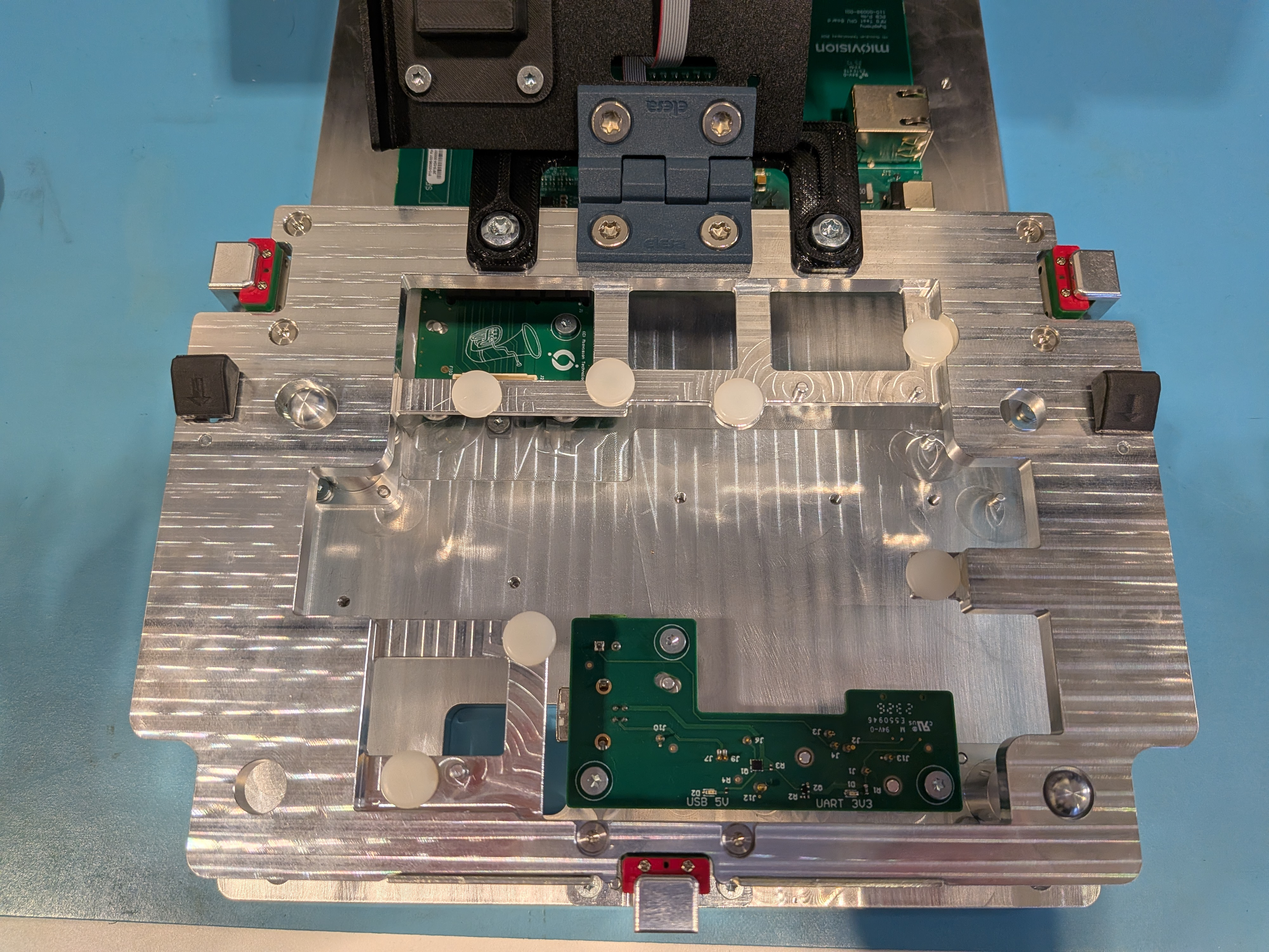
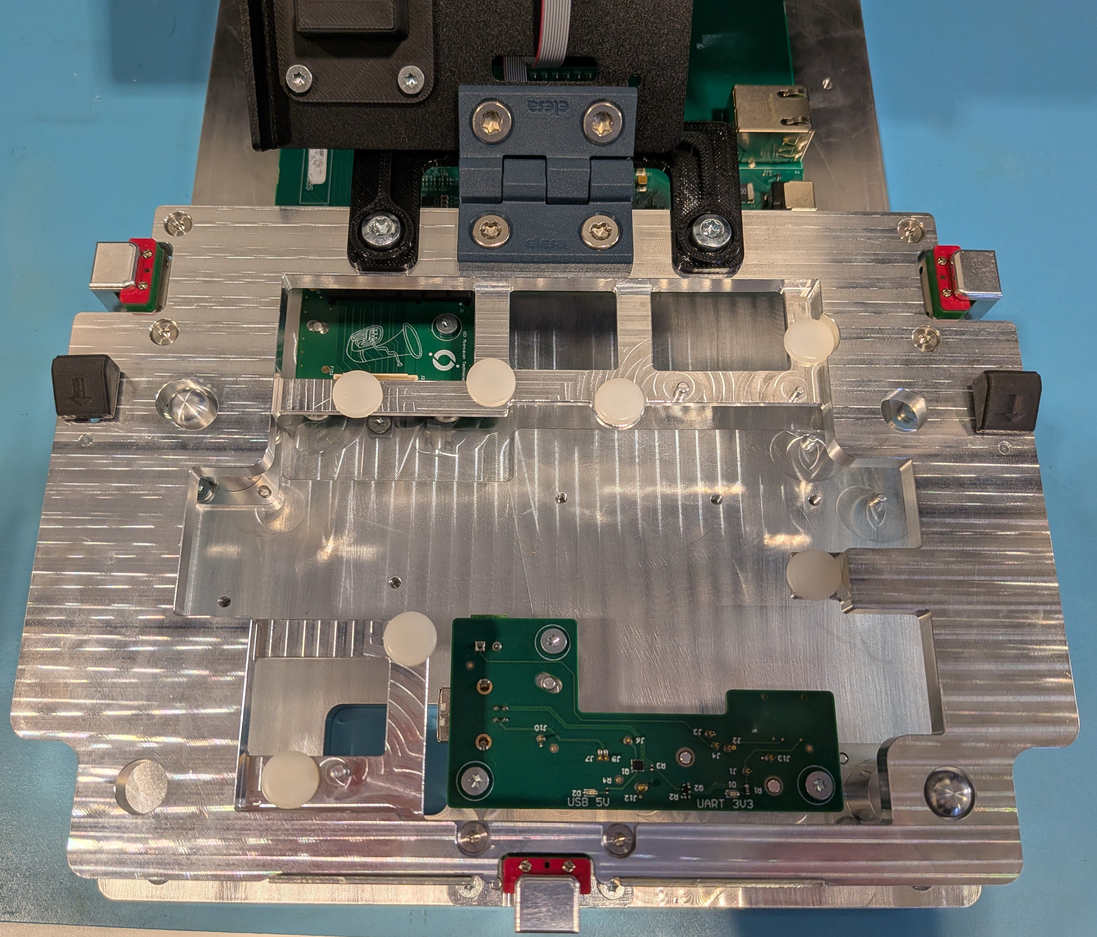
projects

diff --git a/index.html b/index.html
@@ -9,10 +9,9 @@
 <body>
 
     <!-- Navigation Header -->
+     <div class = "frosted-panel">
     <nav class="navbar">
-    <div class="frosted-panel">
     <div class="logo">Shaelyn.McBride</div>
-    </div>
     <div class="nav-links">
 
     <button onclick= "window.location.href = '#projects'" class="btn cube cube-hover" type="button">
@@ -57,6 +56,7 @@
 </nav>
         </div>
     </nav>
+    </div>
 
     <main>
         <!-- Hero Section -->

diff --git a/style.css b/style.css
@@ -390,7 +390,7 @@ main, .navbar, footer {
   display: flex;
   gap: 0.5rem;
   flex-wrap: wrap;
-  padding-bottom: 1rem;
+  padding-bottom: 10rem;
 }
 
 .project-tags span {
